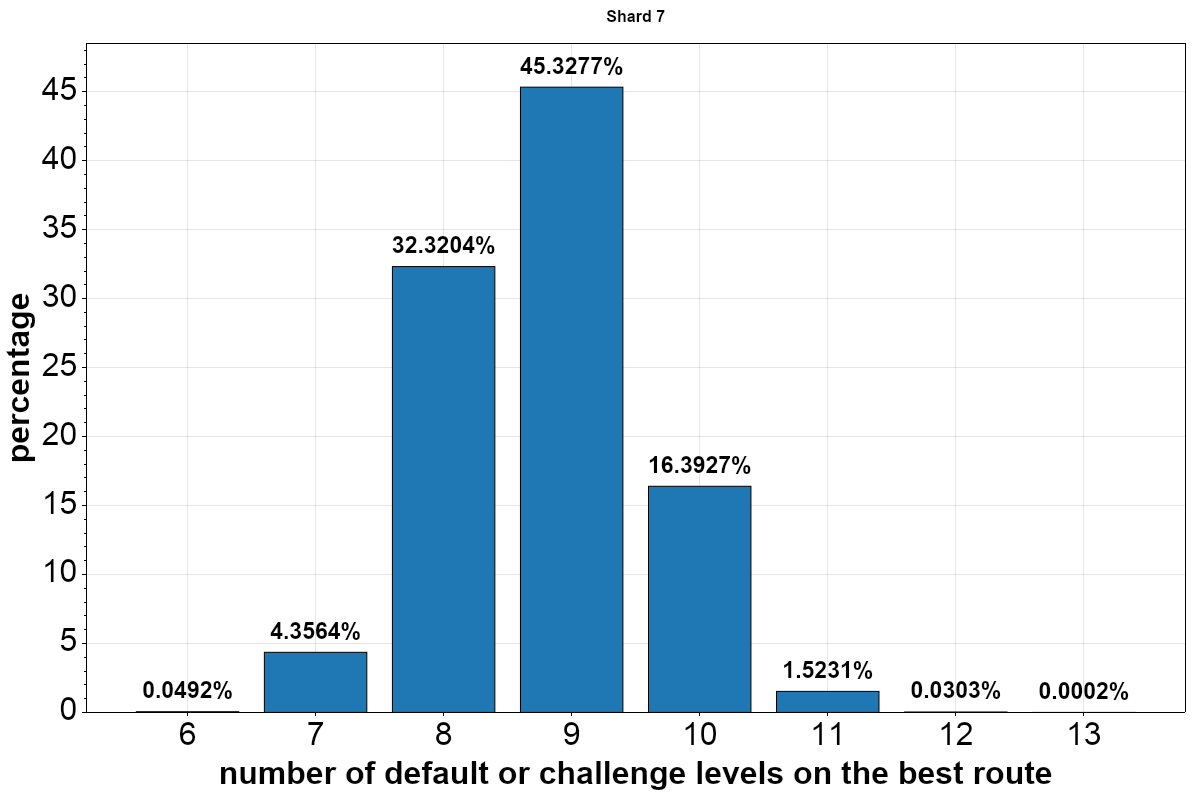
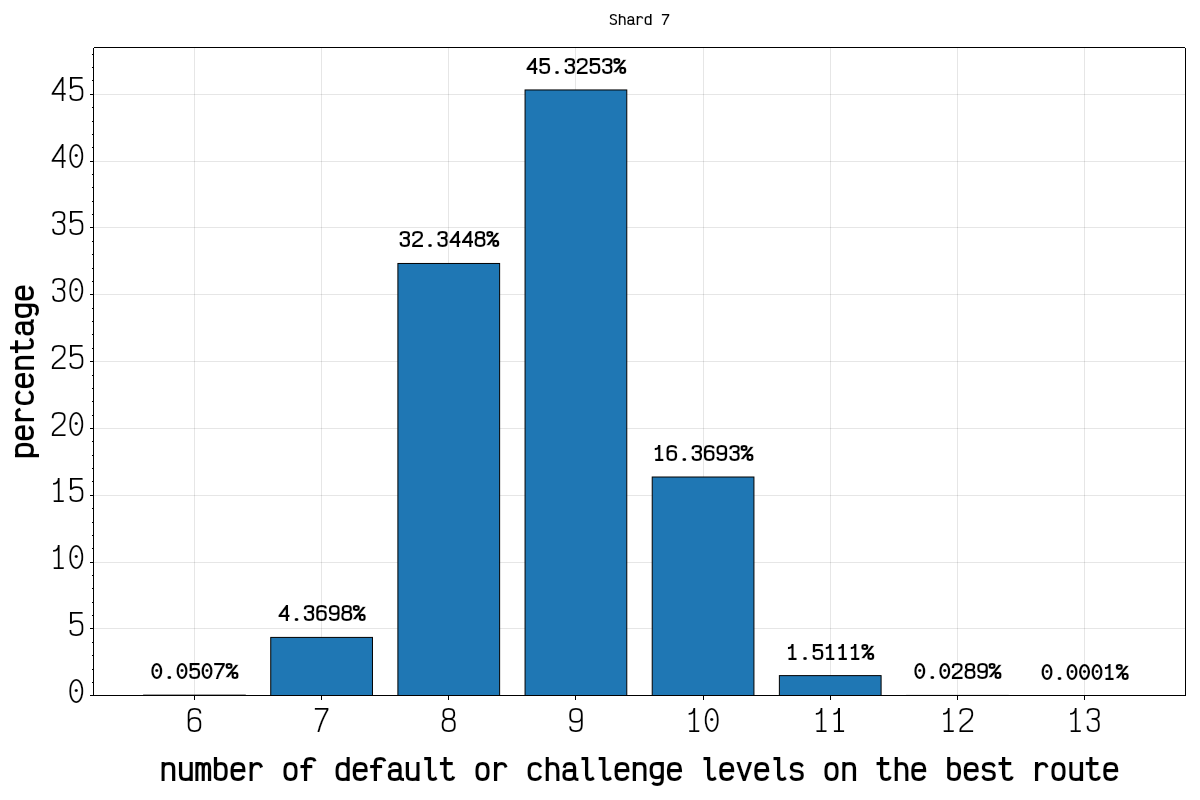
docs: Add 100000000 seeds analysis

diff --git a/README.md b/README.md
@@ -10,7 +10,7 @@ You can view layouts using the latest generator at <https://haste.razzleware.de>
 
 Note: The following plots apply to the latest released generator. For analysis of the demo and experimental generator, see [this commit](https://github.com/frereit/haste-world-gen/blob/84093923d5fad3641e5ec86307d1c916ada0c78b/README.md#analysis).
 
-In this analysis, the first one million seeds of every shard were analysed and the best routes were counted. The first forced level of each shard is not counted.
+In this analysis, the first one hundred million seeds of every shard were analyzed and the best routes were counted. The first forced level of each shard is not counted.
 
 ![Shard 1](media/shard1.png)
 ![Shard 2](media/shard2.png)
